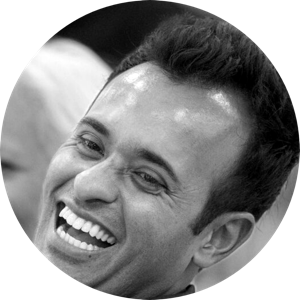
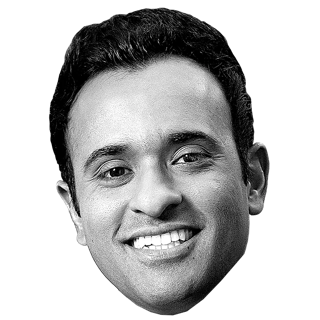
Use the transparent B&W cutout as the wheel hub; head counter-spins with the wheel, lands upright

diff --git a/assets/css/style.css b/assets/css/style.css
@@ -43,15 +43,13 @@ a{color:var(--gold-bright)}
 .pointer{position:absolute;top:-6px;left:50%;transform:translateX(-50%);z-index:5;width:0;height:0;
   border-left:16px solid transparent;border-right:16px solid transparent;border-top:26px solid var(--gold-bright);filter:drop-shadow(0 2px 3px rgba(0,0,0,.5))}
 .wheel{width:100%;height:100%;border-radius:50%;transition:transform 4.6s cubic-bezier(.13,.72,.16,1);filter:drop-shadow(0 14px 30px rgba(0,0,0,.55));transform:rotate(0deg)}
-.wheel-hub{position:absolute;top:50%;left:50%;width:78px;height:78px;transform:translate(-50%,-50%);border-radius:50%;
-  border:3px solid var(--gold);z-index:4;overflow:hidden;background:var(--stage);
-  box-shadow:0 3px 10px rgba(0,0,0,.5)}
-.wheel-hub img{width:100%;height:100%;object-fit:cover;display:block;transform-origin:center}
-/* the head cackles (upright rock + zoom) while the wheel spins — stays readable */
-.wheel-hub.whirl img{animation:hub-cackle .42s ease-in-out infinite}
-@keyframes hub-cackle{0%{transform:rotate(-5deg) scale(1)}50%{transform:rotate(5deg) scale(1.07)}100%{transform:rotate(-5deg) scale(1)}}
+/* floating transparent head at the pivot; it counter-spins with the wheel and lands upright */
+.wheel-hub{position:absolute;top:50%;left:50%;width:104px;height:104px;transform:translate(-50%,-50%);z-index:4;
+  filter:drop-shadow(0 4px 10px rgba(0,0,0,.6))}
+.wheel-hub img{width:100%;height:100%;object-fit:contain;display:block;transform-origin:center;
+  transition:transform 4.6s cubic-bezier(.13,.72,.16,1)}
 @media(prefers-reduced-motion:reduce){.wheel{transition:transform .6s ease-out}
-  .wheel-hub.whirl img{animation:none}}
+  .wheel-hub img{transition:transform .6s ease-out}}
 
 .panel{background:var(--panel);border:1px solid var(--line);border-radius:16px;padding:24px;position:relative;overflow:hidden}
 .host{display:flex;gap:12px;align-items:flex-start;margin-bottom:18px}

diff --git a/assets/js/game.js b/assets/js/game.js
@@ -98,7 +98,9 @@ function initGame(BANK){
       reveal=document.getElementById('reveal'),verdictEl=document.getElementById('verdict'),gresEl=document.getElementById('gres'),
       explEl=document.getElementById('expl'),lossEl=document.getElementById('loss'),srcEl=document.getElementById('src'),
       nextBtn=document.getElementById('nextBtn'),wheel=document.getElementById('wheel'),
-      wheelHub=document.getElementById('wheelHub');
+      wheelHub=document.getElementById('wheelHub'),
+      hubImg=wheelHub?wheelHub.querySelector('img'):null;
+  var headRot=0;
   var money=function(n){return '$'+Math.round(n).toLocaleString();};
   function tween(el,from,to,dur){ if(reduce){el.textContent=money(to);return;} var t0=null;
     function fr(t){if(!t0)t0=t;var p=Math.min((t-t0)/dur,1);el.textContent=money(from+(to-from)*(1-Math.pow(1-p,3)));if(p<1)requestAnimationFrame(fr);}
@@ -132,11 +134,10 @@ function initGame(BANK){
     var landed=Math.floor(Math.random()*N), turns=4+Math.floor(Math.random()*3);
     var target=turns*360+(360-(landed*STEP+STEP/2)); rotation+=target-(rotation%360);
     wheel.style.transform='rotate('+rotation+'deg)';
-    if(wheelHub)wheelHub.classList.add('whirl');
+    if(hubImg){ headRot-=turns*360; hubImg.style.transform='rotate('+headRot+'deg)'; } // counter-spin, lands upright
     var settle=reduce?600:4600; startTicks(settle);
     setTimeout(function(){
       stopTicks();
-      if(wheelHub)wheelHub.classList.remove('whirl');
       var amt=WEDGES[landed].amt; if(amt>pot)amt=pot;
       var p0=pot,h0=house; pot-=amt; house+=amt;
       tween(potV,p0,pot,800); tween(houseV,h0,house,800); flyMoney(); sfxDing();
